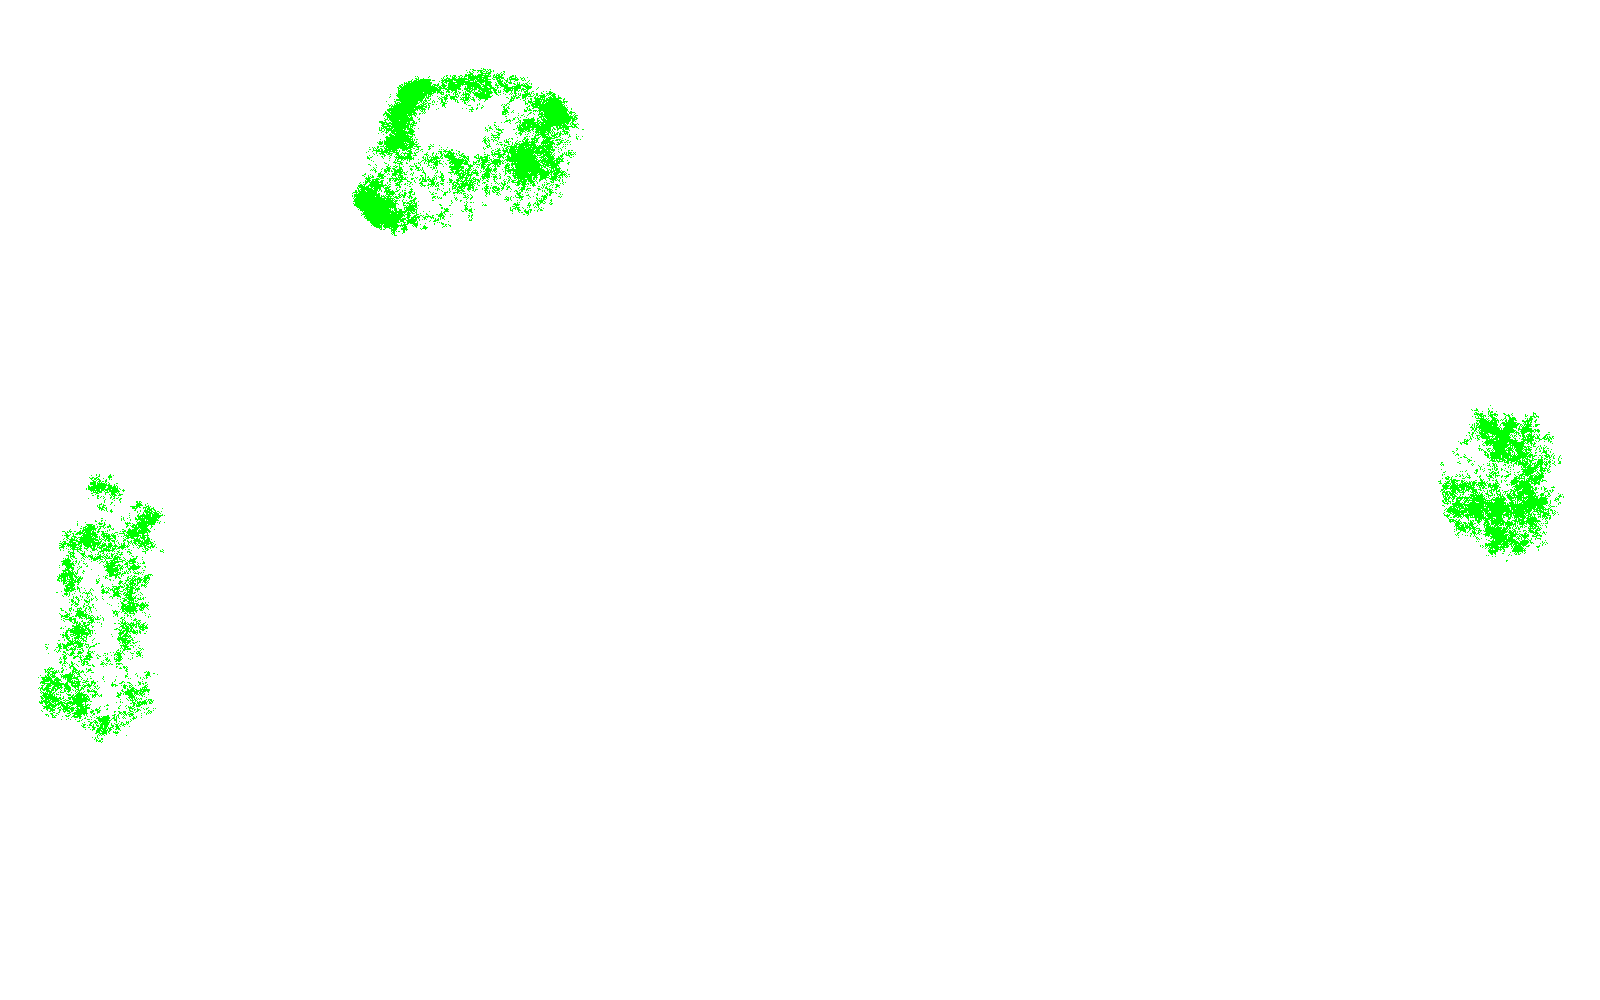
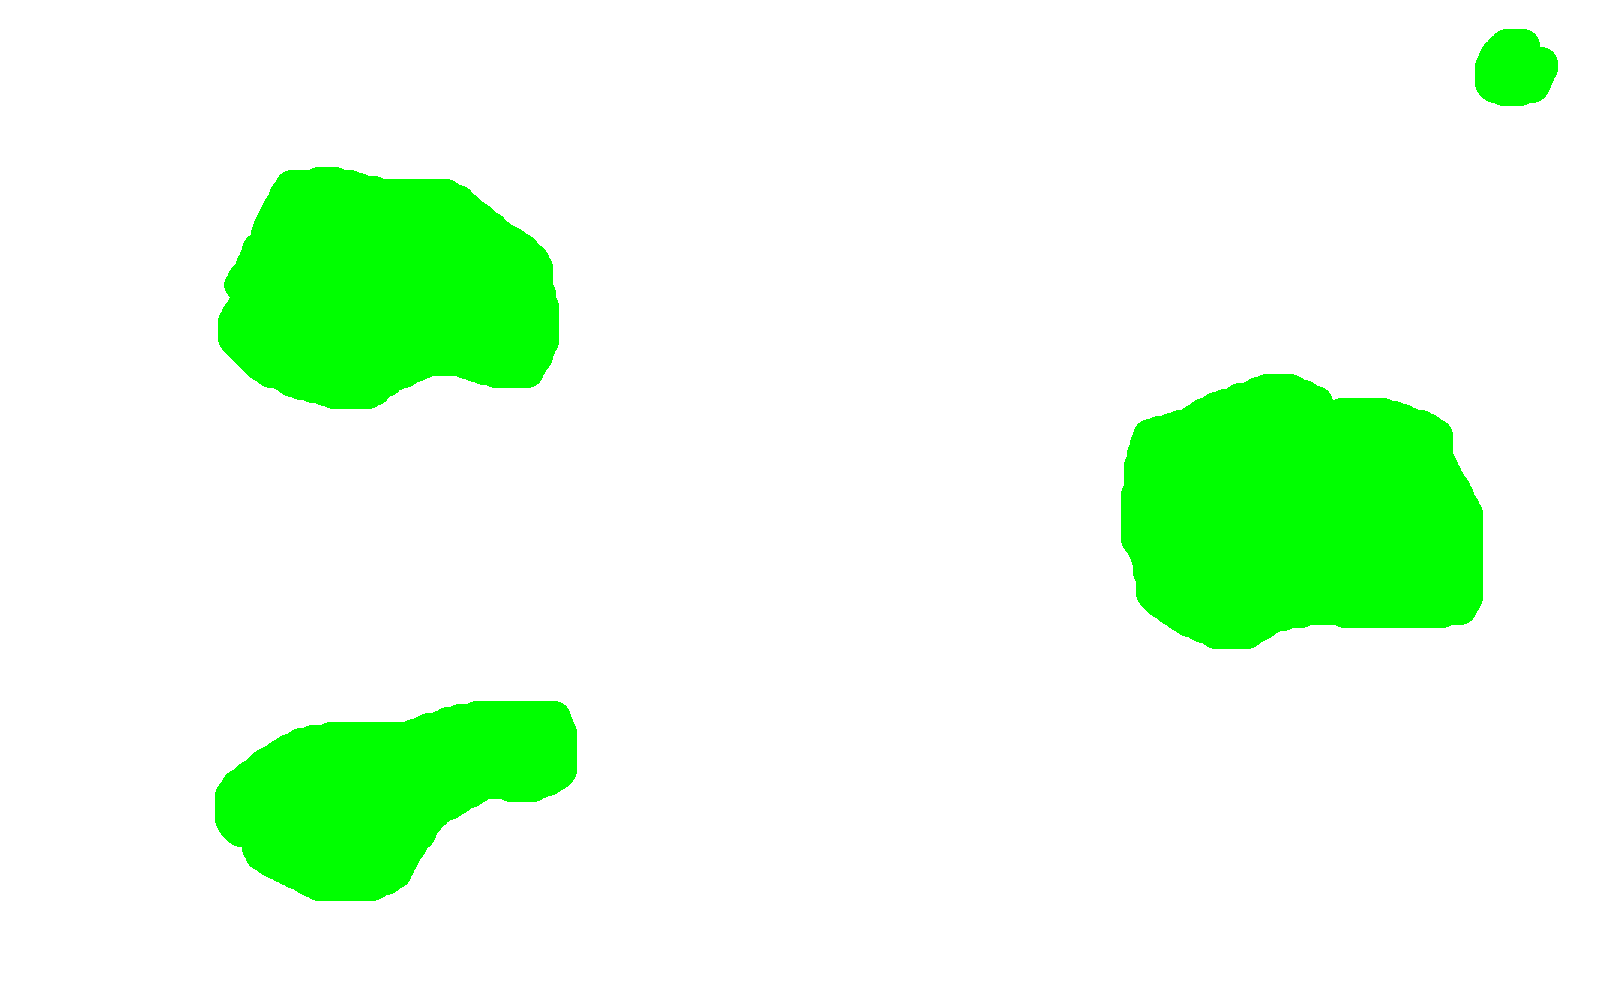
fix

diff --git a/src/main.rs b/src/main.rs
@@ -13,9 +13,10 @@ use winit::{
 
 const SCREEN_WIDTH: u32 = 1600;
 const SCREEN_HEIGHT: u32 = 1000;
-const NUM_ANTS: u32 = 256*256;
+const NUM_ANTS: u32 = 256 * 256;
 const AWAY: u32 = 0;
-const HOME: Vec2 = Vec2::new(1128., 782.);
+const HOME: Vec2 = Vec2::new(850., 560.);
+const RADIUS: f32 = 70.;
 
 #[repr(C)]
 #[derive(Copy, Clone, Debug, bytemuck::Pod, bytemuck::Zeroable)]
@@ -32,7 +33,7 @@ impl Ant {
         let vec = Vec2::from_angle(angle);
         let state = AWAY;
         Ant {
-            pos: (HOME + vec * 30.).into(),
+            pos: (HOME + vec * (RADIUS + 10.)).into(),
             angle,
             state,
             frame_hit: 0,
@@ -44,8 +45,8 @@ impl Ant {
 #[derive(Copy, Clone, Debug, bytemuck::Pod, bytemuck::Zeroable)]
 struct FrameUniform {
     home: [f32; 2],
+    radius: f32,
     frame_count: u32,
-    _padding: u32,
 }
 
 fn create_world_texture(
@@ -250,9 +251,48 @@ async fn run() {
         entry_point: "main",
     });
 
+    let render_bind_group_layout =
+        device.create_bind_group_layout(&wgpu::BindGroupLayoutDescriptor {
+            label: Some("Render Bind Group Layout"),
+            entries: &[
+                wgpu::BindGroupLayoutEntry {
+                    binding: 0,
+                    visibility: wgpu::ShaderStages::FRAGMENT,
+                    ty: wgpu::BindingType::Sampler(wgpu::SamplerBindingType::Filtering),
+                    count: None,
+                },
+                wgpu::BindGroupLayoutEntry {
+                    binding: 1,
+                    visibility: wgpu::ShaderStages::FRAGMENT,
+                    ty: wgpu::BindingType::Texture {
+                        sample_type: wgpu::TextureSampleType::Float { filterable: true },
+                        view_dimension: wgpu::TextureViewDimension::D2,
+                        multisampled: false,
+                    },
+                    count: None,
+                },
+                wgpu::BindGroupLayoutEntry {
+                    binding: 2,
+                    visibility: wgpu::ShaderStages::FRAGMENT,
+                    ty: wgpu::BindingType::Buffer {
+                        ty: wgpu::BufferBindingType::Uniform,
+                        has_dynamic_offset: false,
+                        min_binding_size: None,
+                    },
+                    count: None,
+                },
+            ],
+        });
+
+    let render_pipeline_layout = device.create_pipeline_layout(&wgpu::PipelineLayoutDescriptor {
+        label: Some("Render Pipeline Layout"),
+        bind_group_layouts: &[&render_bind_group_layout],
+        push_constant_ranges: &[],
+    });
+
     let render_pipeline = device.create_render_pipeline(&wgpu::RenderPipelineDescriptor {
         label: Some("Render Pipeline"),
-        layout: None,
+        layout: Some(&render_pipeline_layout),
         vertex: wgpu::VertexState {
             module: &render_shader,
             entry_point: "vs_main",
@@ -270,7 +310,6 @@ async fn run() {
     });
 
     let process_bind_group_layout = process_pipeline.get_bind_group_layout(0);
-    let render_bind_group_layout = render_pipeline.get_bind_group_layout(0);
 
     let ant_bind_groups = [
         device.create_bind_group(&wgpu::BindGroupDescriptor {
@@ -363,6 +402,10 @@ async fn run() {
                     binding: 1,
                     resource: wgpu::BindingResource::TextureView(&world_textures[0]),
                 },
+                wgpu::BindGroupEntry {
+                    binding: 2,
+                    resource: uniform_buffer.as_entire_binding(),
+                },
             ],
         }),
         device.create_bind_group(&wgpu::BindGroupDescriptor {
@@ -376,6 +419,10 @@ async fn run() {
                 wgpu::BindGroupEntry {
                     binding: 1,
                     resource: wgpu::BindingResource::TextureView(&world_textures[1]),
+                },
+                wgpu::BindGroupEntry {
+                    binding: 2,
+                    resource: uniform_buffer.as_entire_binding(),
                 },
             ],
         }),
@@ -393,7 +440,7 @@ async fn run() {
                         bytemuck::cast_slice(&[FrameUniform {
                             frame_count: frame_num as u32,
                             home: HOME.into(),
-                            _padding: 0
+                            radius: RADIUS,
                         }]),
                     );
 
